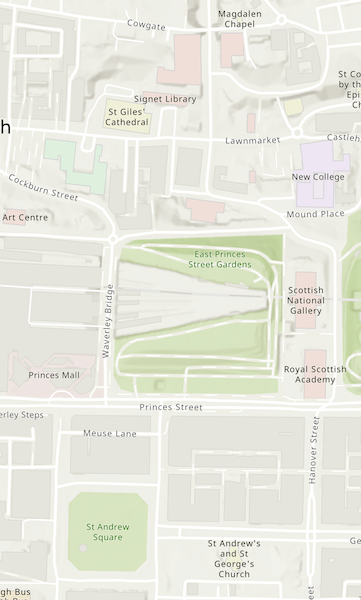
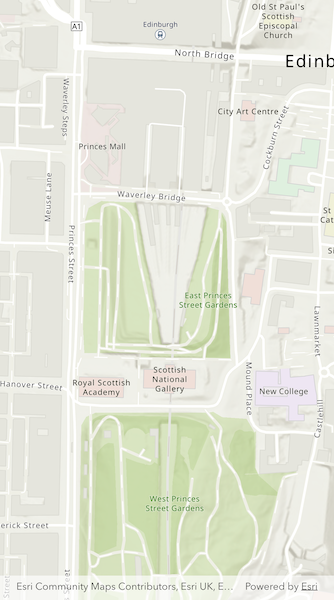
Updated image for sample and fixed dart file syntax.

diff --git a/lib/samples/set_min_and_max_scale/set_min_and_max_scale.dart b/lib/samples/set_min_and_max_scale/set_min_and_max_scale.dart
@@ -28,8 +28,6 @@ class _SetMinAndMaxScaleState extends State<SetMinAndMaxScale>
     with SampleStateSupport {
   // Create a controller for the map view.
   final _mapViewController = ArcGISMapView.createController();
-  // A flag for when the map view is ready and controls can be used.
-  var _ready = false;
 
   @override
   Widget build(BuildContext context) {
@@ -41,8 +39,6 @@ class _SetMinAndMaxScaleState extends State<SetMinAndMaxScale>
             controllerProvider: () => _mapViewController,
             onMapViewReady: onMapViewReady,
           ),
-          // Display a progress indicator and prevent interaction until state is ready.
-          LoadingIndicator(visible: !_ready),
         ],
       ),
     );
@@ -59,13 +55,10 @@ class _SetMinAndMaxScaleState extends State<SetMinAndMaxScale>
       ),
       scale: 3000,
     );
-    // Set min and max scales of map.
-    map.minScale = 800;
+    // Set min and max scales to the map.
+    map.minScale = 8000;
     map.maxScale = 2000;
     // Set the map to the map view controller.
     _mapViewController.arcGISMap = map;
-
-    // Set the ready state variable to true to enable the sample UI.
-    setState(() => _ready = true);
   }
 }
